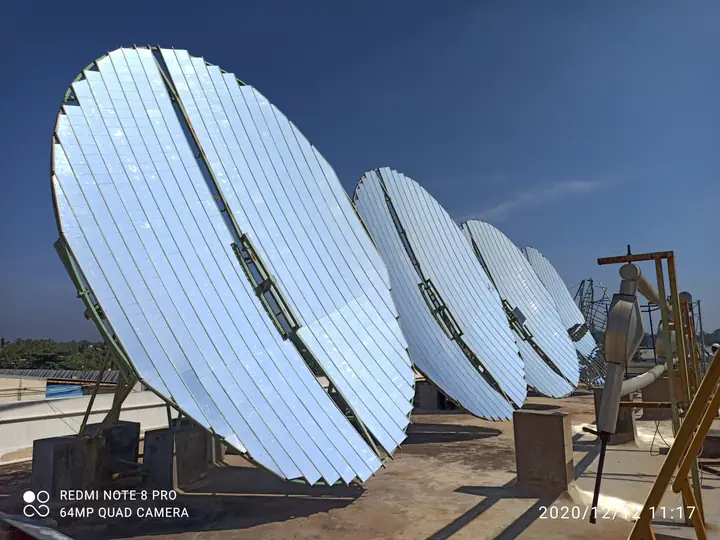
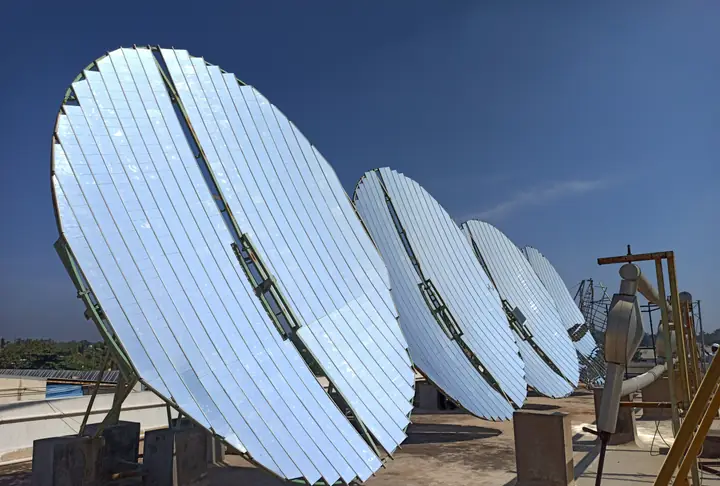
fix: update image paths and dimensions for Scheffler dish in product catalog and media

diff --git a/frontend/src/components/Navbar.jsx b/frontend/src/components/Navbar.jsx
@@ -1,82 +1,119 @@
 import React, { useState, useEffect, useLayoutEffect, useRef } from 'react';
 import { Link, useLocation, useNavigate } from 'react-router-dom';
 import {
-  Menu, X, ArrowRight, ChevronDown, ChevronRight, FileText, Images, PlayCircle, MapPin, LayoutGrid
+  Menu, X, ArrowRight, ChevronDown, ChevronRight, FileText, Images, PlayCircle, MapPin, LayoutGrid, CheckCircle2
 } from 'lucide-react';
 import { useLanguage } from '../context/LanguageContext';
 import useScrollLock, { useEscapeKey } from '../hooks/useScrollLock';
 import LanguageWidget from './LanguageWidget';
 import { PRODUCTS } from '../data/siteMap';
-import { nodeTitle, nodeShortTitle, productThumb, DRYER_GROUPS, dryerModels } from '../data/productCatalog';
+import { nodeTitle, nodeShortTitle, productImage, productThumb, DRYER_GROUPS, dryerModels } from '../data/productCatalog';
 
 // Sub-products of a product area for the menus: its products and their own sub-products, in order
 const menuChildren = (product) => (product.children || []).flatMap(c => [{ node: c, depth: 0 }, ...(c.children || []).map(g => ({ node: g, depth: 1 }))]);
 
-// Products menu, right-hand panel: what the hovered product area contains.
-// Solar Dryer Models shows its models as photo tiles - the three sq.ft box dryers in the first row,
-// then the five tunnel dryers; the other areas list their products by name.
+// One product in the Products menu: its photo filling the tile, its name on the photo
+function MenuTile({ node, label, large = false, compact = false, onNavigate }) {
+  return (
+    <Link
+      to={node.path}
+      onClick={onNavigate}
+      className="group relative block min-h-0 min-w-0 rounded-2xl overflow-hidden bg-slate-200 ring-1 ring-slate-200 hover:ring-4 hover:ring-[#002DC2]/70 transition-shadow"
+    >
+      <img
+        src={large ? productImage(node) : productThumb(node)}
+        alt=""
+        className="absolute inset-0 w-full h-full object-cover group-hover:scale-105 transition-transform duration-500"
+      />
+      <span className={`absolute inset-x-0 bottom-0 flex items-end justify-between gap-2 bg-gradient-to-t from-black/85 via-black/45 to-transparent pt-12 pb-3 ${compact ? 'px-3' : 'px-4'}`}>
+        <span className={`font-extrabold text-white leading-snug drop-shadow ${large ? 'text-lg xl:text-xl' : 'text-sm xl:text-base'} ${compact ? 'whitespace-nowrap' : ''}`}>{label}</span>
+        {!compact && <ArrowRight className="w-5 h-5 text-white shrink-0 opacity-0 -translate-x-1 group-hover:opacity-100 group-hover:translate-x-0 transition-all" />}
+      </span>
+    </Link>
+  );
+}
+
+// Products menu, right-hand side: the hovered product area's products as large photo tiles that
+// share the menu's height. Solar Dryer Models: the three sq.ft box dryers in the first row, the
+// five tunnel dryers in the second.
 function ProductMenuPanel({ product, onNavigate }) {
   const { t } = useLanguage();
-  const items = menuChildren(product);
+  let content;
+  if (product.id === 'solar-dryer') {
+    content = DRYER_GROUPS.map(group => {
+      const models = dryerModels(group.id);
+      return (
+        <div key={group.id} className="flex-1 min-h-0 flex flex-col gap-2">
+          <p className="text-xs font-black uppercase tracking-wider text-slate-500">{t(group.titleKey)}</p>
+          <div className={`flex-1 min-h-0 grid grid-rows-1 gap-3 ${models.length > 3 ? 'grid-cols-5' : 'grid-cols-3'}`}>
+            {models.map(model => <MenuTile key={model.id} node={model} label={nodeShortTitle(model, t)} compact onNavigate={onNavigate} />)}
+          </div>
+        </div>
+      );
+    });
+  } else if (product.children) {
+    // every product and sub-product of the area, plus a tile for the area's own page
+    const nodes = menuChildren(product).map(({ node }) => node);
+    const rows = nodes.length > 3 ? 2 : 1;
+    const cols = rows === 2 ? 'grid-cols-3' : nodes.length === 3 ? 'grid-cols-3' : 'grid-cols-2';
+    const ProductIcon = product.icon;
+    content = (
+      <div className={`flex-1 min-h-0 grid gap-3 ${cols} ${rows === 2 ? 'grid-rows-2' : 'grid-rows-1'}`}>
+        {nodes.map(node => <MenuTile key={node.id} node={node} label={nodeTitle(node, t)} large={rows === 1} onNavigate={onNavigate} />)}
+        {rows === 2 && nodes.length % 3 !== 0 && (
+          <Link
+            to={product.path}
+            onClick={onNavigate}
+            className="group min-h-0 rounded-2xl border-2 border-dashed border-[#002DC2]/25 bg-[#F0F4FD] hover:bg-[#E3EAFC] flex flex-col items-center justify-center gap-3 p-4 text-center transition-colors"
+          >
+            <span className="w-14 h-14 rounded-2xl bg-[#002DC2] text-white flex items-center justify-center"><ProductIcon className="w-8 h-8" /></span>
+            <span className="text-base font-extrabold text-[#123B92]">{t(product.key)}</span>
+            <span className="inline-flex items-center gap-1.5 text-sm font-bold text-[#002DC2]">
+              {t('prod_explore')} <ArrowRight className="w-4 h-4 group-hover:translate-x-1 transition-transform" />
+            </span>
+          </Link>
+        )}
+      </div>
+    );
+  } else {
+    // a product without sub-products (Solar Water Heater): its photo and its key facts
+    content = (
+      <div className="flex-1 min-h-0 grid grid-cols-2 grid-rows-1 gap-6">
+        <MenuTile node={product} label={t(product.key)} large onNavigate={onNavigate} />
+        <div className="flex flex-col justify-center gap-4">
+          <p className="text-lg text-slate-600 leading-relaxed">{t(product.shortKey)}</p>
+          {product.points && (
+            <ul className="space-y-3">
+              {product.points.map(key => (
+                <li key={key} className="flex items-start gap-3 text-base font-bold text-[#123B92]">
+                  <CheckCircle2 className="w-6 h-6 text-[#23AC39] shrink-0" />
+                  <span>{t(key)}</span>
+                </li>
+              ))}
+            </ul>
+          )}
+          <Link
+            to={product.path}
+            onClick={onNavigate}
+            className="self-start inline-flex items-center gap-2 px-5 py-3 rounded-xl bg-[#002DC2] hover:bg-[#123B92] text-white text-sm font-extrabold transition-colors"
+          >
+            {t('cat_viewProduct')} <ArrowRight className="w-4 h-4" />
+          </Link>
+        </div>
+      </div>
+    );
+  }
   return (
-    <div className="space-y-3">
+    <div className="h-full flex flex-col gap-4">
       <Link
         to={product.path}
         onClick={onNavigate}
-        className="group inline-flex items-center gap-1.5 text-base font-black text-[#123B92] hover:text-[#002DC2] transition-colors"
+        className="group self-start inline-flex items-center gap-2 text-xl xl:text-2xl font-black text-[#123B92] hover:text-[#002DC2] transition-colors"
       >
         {t(product.key)}
-        <ArrowRight className="w-4 h-4 group-hover:translate-x-0.5 transition-transform" />
+        <ArrowRight className="w-5 h-5 group-hover:translate-x-1 transition-transform" />
       </Link>
-
-      {product.id === 'solar-dryer' ? (
-        DRYER_GROUPS.map(group => (
-          <div key={group.id}>
-            <p className="text-2xs font-black uppercase tracking-wider text-slate-400 mb-1 px-1">{t(group.titleKey)}</p>
-            <div className="grid grid-cols-3 gap-1">
-              {dryerModels(group.id).map(model => (
-                <Link
-                  key={model.id}
-                  to={model.path}
-                  onClick={onNavigate}
-                  className="group block rounded-xl p-1 hover:bg-[#F0F4FD] transition-colors"
-                >
-                  <span className="block aspect-[3/2] rounded-lg overflow-hidden bg-slate-100 border border-slate-200">
-                    <img src={productThumb(model)} alt="" loading="lazy" className="w-full h-full object-cover group-hover:scale-105 transition-transform duration-300" />
-                  </span>
-                  <span className="block mt-1 text-xs font-bold text-center text-slate-700 group-hover:text-[#002DC2] whitespace-nowrap">
-                    {nodeShortTitle(model, t)}
-                  </span>
-                </Link>
-              ))}
-            </div>
-          </div>
-        ))
-      ) : items.length > 0 ? (
-        <ul className="space-y-0.5">
-          {items.map(({ node, depth }) => (
-            <li key={node.id}>
-              <Link
-                to={node.path}
-                onClick={onNavigate}
-                className={`group flex items-center gap-3 rounded-xl p-1.5 hover:bg-[#F0F4FD] transition-colors ${depth ? 'ml-6' : ''}`}
-              >
-                <img src={productThumb(node)} alt="" loading="lazy" className={`${depth ? 'w-11 h-8' : 'w-14 h-10'} rounded-md object-cover bg-slate-100 border border-slate-200 shrink-0`} />
-                <span className={`${depth ? 'text-xs' : 'text-sm'} font-bold text-slate-700 group-hover:text-[#002DC2] leading-snug`}>{nodeTitle(node, t)}</span>
-              </Link>
-            </li>
-          ))}
-        </ul>
-      ) : (
-        <Link to={product.path} onClick={onNavigate} className="group block">
-          <span className="block aspect-[16/10] rounded-xl overflow-hidden bg-slate-100 border border-slate-200">
-            <img src={productThumb(product)} alt="" loading="lazy" className="w-full h-full object-cover group-hover:scale-105 transition-transform duration-300" />
-          </span>
-          <span className="mt-2 inline-flex items-center gap-1.5 text-sm font-bold text-[#002DC2]">
-            {t('cat_viewProduct')} <ArrowRight className="w-4 h-4" />
-          </span>
-        </Link>
-      )}
+      {content}
     </div>
   );
 }
@@ -95,7 +132,7 @@ export default function Navbar({ onOpenQuoteModal, animStage = 3 }) {
   const productsRef = useRef(null);
   const galleryRef = useRef(null);
   const timeoutRef = useRef(null);
-  const headerRef = useRef(null);
+  const productsPanelRef = useRef(null);
   const location = useLocation();
   const { t, lang } = useLanguage();
 
@@ -150,6 +187,7 @@ export default function Navbar({ onOpenQuoteModal, animStage = 3 }) {
   // Freeze the page behind the open mobile menu; Esc closes it
   useScrollLock(mobileMenuOpen);
   useEscapeKey(mobileMenuOpen, () => setMobileMenuOpen(false));
+  useEscapeKey(productsDropdownOpen || galleryDropdownOpen, () => { setProductsDropdownOpen(false); setGalleryDropdownOpen(false); });
 
   // Close menus on route change
   useEffect(() => {
@@ -162,7 +200,8 @@ export default function Navbar({ onOpenQuoteModal, animStage = 3 }) {
   // Close dropdowns when clicking outside
   useEffect(() => {
     const handleClickOutside = (e) => {
-      if (productsRef.current && !productsRef.current.contains(e.target)) {
+      const inProducts = [productsRef.current, productsPanelRef.current].some(el => el && el.contains(e.target));
+      if (!inProducts) {
         setProductsDropdownOpen(false);
       }
       if (galleryRef.current && !galleryRef.current.contains(e.target)) {
@@ -232,7 +271,7 @@ export default function Navbar({ onOpenQuoteModal, animStage = 3 }) {
   const isContactActive = location.pathname === '/contact';
 
   return (
-    <header ref={headerRef} className="sticky top-0 z-40 relative bg-white/95 backdrop-blur-md shadow-sm w-full transition-colors duration-500 border-b border-slate-100">
+    <header className="sticky top-0 z-40 relative bg-white/95 backdrop-blur-md shadow-sm w-full transition-colors duration-500 border-b border-slate-100">
       
       {/* MAIN NAVBAR CONTAINER */}
       <div className={`w-full px-5 sm:px-8 ${density === 0 ? 'md:px-[60px]' : 'lg:px-6'}`}>
@@ -301,50 +340,6 @@ export default function Navbar({ onOpenQuoteModal, animStage = 3 }) {
                 <ChevronDown className={`w-4 h-4 transition-transform duration-200 ${productsDropdownOpen ? 'rotate-180 text-[#002DC2]' : 'text-slate-500'}`} />
               </button>
 
-              {/* PRODUCTS DROPDOWN: the four product areas on the left; the hovered area's products on the right */}
-              {productsDropdownOpen && (
-                <div
-                  className={`absolute top-full ${twoRow ? 'left-0' : 'left-1/2 -translate-x-1/2'} mt-2 w-[620px] bg-white rounded-2xl shadow-2xl border border-slate-200/90 z-50 animate-fade-in flex overflow-hidden`}
-                  onMouseEnter={handleProductsEnter}
-                  onMouseLeave={handleProductsLeave}
-                >
-                  <div className="w-[230px] shrink-0 bg-slate-50 border-r border-slate-100 p-2 flex flex-col gap-2">
-                    <ul className="space-y-1">
-                      {PRODUCTS.map((product) => {
-                        const active = product.id === menuProduct.id;
-                        const Icon = product.icon;
-                        return (
-                          <li key={product.id}>
-                            <Link
-                              to={product.path}
-                              onMouseEnter={() => setMenuProductId(product.id)}
-                              onFocus={() => setMenuProductId(product.id)}
-                              onClick={() => setProductsDropdownOpen(false)}
-                              className={`flex items-center gap-2.5 px-3 py-2.5 rounded-xl text-sm font-bold transition-colors ${
-                                active ? 'bg-white text-[#002DC2] shadow-sm ring-1 ring-[#002DC2]/15' : 'text-slate-700 hover:text-[#002DC2]'
-                              }`}
-                            >
-                              <Icon className="w-5 h-5 shrink-0" />
-                              <span className="flex-1 leading-snug">{t(product.key)}</span>
-                              {product.children && <ChevronRight className={`w-4 h-4 shrink-0 ${active ? 'text-[#002DC2]' : 'text-slate-400'}`} />}
-                            </Link>
-                          </li>
-                        );
-                      })}
-                    </ul>
-                    <Link
-                      to="/products"
-                      onClick={() => setProductsDropdownOpen(false)}
-                      className="mt-auto flex items-center gap-2 px-3 py-2.5 rounded-xl border-t border-slate-200 text-sm font-bold text-[#002DC2] hover:bg-white transition-colors"
-                    >
-                      <LayoutGrid className="w-4 h-4" /> {t('site_viewAllProducts')}
-                    </Link>
-                  </div>
-                  <div className="flex-1 min-w-0 p-4">
-                    <ProductMenuPanel product={menuProduct} onNavigate={() => setProductsDropdownOpen(false)} />
-                  </div>
-                </div>
-              )}
             </div>
 
             {/* 3. GALLERY (DROPDOWN MENU) */}
@@ -465,17 +460,67 @@ export default function Navbar({ onOpenQuoteModal, animStage = 3 }) {
         </div>
       </div>
 
-      {/* Dimmed backdrop overlay when dropdown is open. It starts below the navbar (taller when its
-          menu wraps onto a second row), so it never covers the menu buttons and closes the menu. */}
+      {/* Dimmed backdrop below the navbar while a menu is open (positioned against the header, so it
+          starts under it even when the menu wraps onto a second row and never covers the menu buttons) */}
       {(productsDropdownOpen || galleryDropdownOpen) && (
         <div
-          style={{ top: headerRef.current?.offsetHeight ?? 68 }}
-          className="hidden lg:block fixed inset-x-0 bottom-0 bg-black/35 backdrop-blur-[1px] z-30 transition-opacity duration-300"
+          className="hidden lg:block absolute inset-x-0 top-full h-screen bg-black/40 backdrop-blur-[1px] z-30"
           onClick={() => {
             setProductsDropdownOpen(false);
             setGalleryDropdownOpen(false);
           }}
         />
+      )}
+
+      {/* PRODUCTS MENU: full width under the navbar, 75% of the screen height. The four product areas on
+          the left; the hovered area's products as large photo tiles on the right. */}
+      {productsDropdownOpen && (
+        <div
+          ref={productsPanelRef}
+          className="hidden lg:block absolute inset-x-0 top-full h-[75vh] min-h-[460px] bg-white border-t border-slate-200 shadow-2xl z-50 animate-fade-in"
+          onMouseEnter={handleProductsEnter}
+          onMouseLeave={handleProductsLeave}
+        >
+          <div className="h-full max-w-[1600px] mx-auto px-6 xl:px-10 py-6 flex gap-6 xl:gap-10">
+            <div className="w-60 xl:w-72 shrink-0 flex flex-col gap-2">
+              <ul className="space-y-1.5">
+                {PRODUCTS.map((product) => {
+                  const active = product.id === menuProduct.id;
+                  const Icon = product.icon;
+                  return (
+                    <li key={product.id}>
+                      <Link
+                        to={product.path}
+                        onMouseEnter={() => setMenuProductId(product.id)}
+                        onFocus={() => setMenuProductId(product.id)}
+                        onClick={() => setProductsDropdownOpen(false)}
+                        className={`flex items-center gap-3 px-3 py-3 rounded-2xl text-base font-bold transition-colors ${
+                          active ? 'bg-[#F0F4FD] text-[#002DC2] ring-1 ring-[#002DC2]/20' : 'text-slate-700 hover:bg-slate-50 hover:text-[#002DC2]'
+                        }`}
+                      >
+                        <span className={`w-10 h-10 rounded-xl flex items-center justify-center shrink-0 transition-colors ${active ? 'bg-[#002DC2] text-white' : 'bg-slate-100 text-[#002DC2]'}`}>
+                          <Icon className="w-5 h-5" />
+                        </span>
+                        <span className="flex-1 leading-snug">{t(product.key)}</span>
+                        <ChevronRight className={`w-5 h-5 shrink-0 ${active ? 'text-[#002DC2]' : 'text-slate-300'}`} />
+                      </Link>
+                    </li>
+                  );
+                })}
+              </ul>
+              <Link
+                to="/products"
+                onClick={() => setProductsDropdownOpen(false)}
+                className="mt-auto flex items-center justify-center gap-2 px-4 py-3 rounded-2xl border border-[#002DC2]/25 text-sm font-bold text-[#002DC2] hover:bg-[#F0F4FD] transition-colors"
+              >
+                <LayoutGrid className="w-4 h-4" /> {t('site_viewAllProducts')}
+              </Link>
+            </div>
+            <div className="flex-1 min-w-0 border-l border-slate-100 pl-6 xl:pl-10">
+              <ProductMenuPanel product={menuProduct} onNavigate={() => setProductsDropdownOpen(false)} />
+            </div>
+          </div>
+        </div>
       )}
 
       {/* MOBILE MENU ACCORDION DRAWER */}

diff --git a/frontend/src/data/productMedia.js b/frontend/src/data/productMedia.js
@@ -79,7 +79,7 @@ export const PRODUCT_PHOTOS = {
     { src: '/images/products/solar-thermal/parabolic-trough/parabolic-trough-13.webp', thumb: '/images/products/solar-thermal/parabolic-trough/parabolic-trough-13-sm.webp', w: 1600, h: 1200 },
   ],
   'scheffler-dish': [
-    { src: '/images/products/solar-thermal/scheffler-dish/scheffler-dish-01.webp', thumb: '/images/products/solar-thermal/scheffler-dish/scheffler-dish-01-sm.webp', w: 1600, h: 1200, place: "Indo-MIM, Bengaluru, Karnataka" },
+    { src: '/images/products/solar-thermal/scheffler-dish/scheffler-dish-01.webp', thumb: '/images/products/solar-thermal/scheffler-dish/scheffler-dish-01-sm.webp', w: 1600, h: 1080, place: "Indo-MIM, Bengaluru, Karnataka" },
     { src: '/images/products/solar-thermal/scheffler-dish/scheffler-dish-02.webp', thumb: '/images/products/solar-thermal/scheffler-dish/scheffler-dish-02-sm.webp', w: 1600, h: 1200, place: "SRM Institute of Science and Technology, Chennai" },
     { src: '/images/products/solar-thermal/scheffler-dish/scheffler-dish-03.webp', thumb: '/images/products/solar-thermal/scheffler-dish/scheffler-dish-03-sm.webp', w: 1600, h: 1200, place: "SRM Institute of Science and Technology, Chennai" },
     { src: '/images/products/solar-thermal/scheffler-dish/scheffler-dish-04.webp', thumb: '/images/products/solar-thermal/scheffler-dish/scheffler-dish-04-sm.webp', w: 1200, h: 1600, place: "SRM Institute of Science and Technology, Chennai" },

diff --git a/frontend/src/data/productCatalog.js b/frontend/src/data/productCatalog.js
@@ -20,7 +20,7 @@ const COVER_IMAGES = {
   'solar-dryer': '/images/gallery/photo-04.webp',
   'solar-thermal': '/images/products/solar-thermal/parabolic-trough/parabolic-trough-01.webp',
   'research-and-development': '/images/projects/project-24.webp',
-  'pv-laboratory': '/images/products/research-and-development/pv-visual-inspection/pv-visual-inspection-01.webp',
+  'pv-laboratory': '/images/products/research-and-development/pv-bending-test/pv-bending-test-02.webp',
 };
 
 export const isPlaceholder = (src) => !src || src === PLACEHOLDER_IMAGE;
